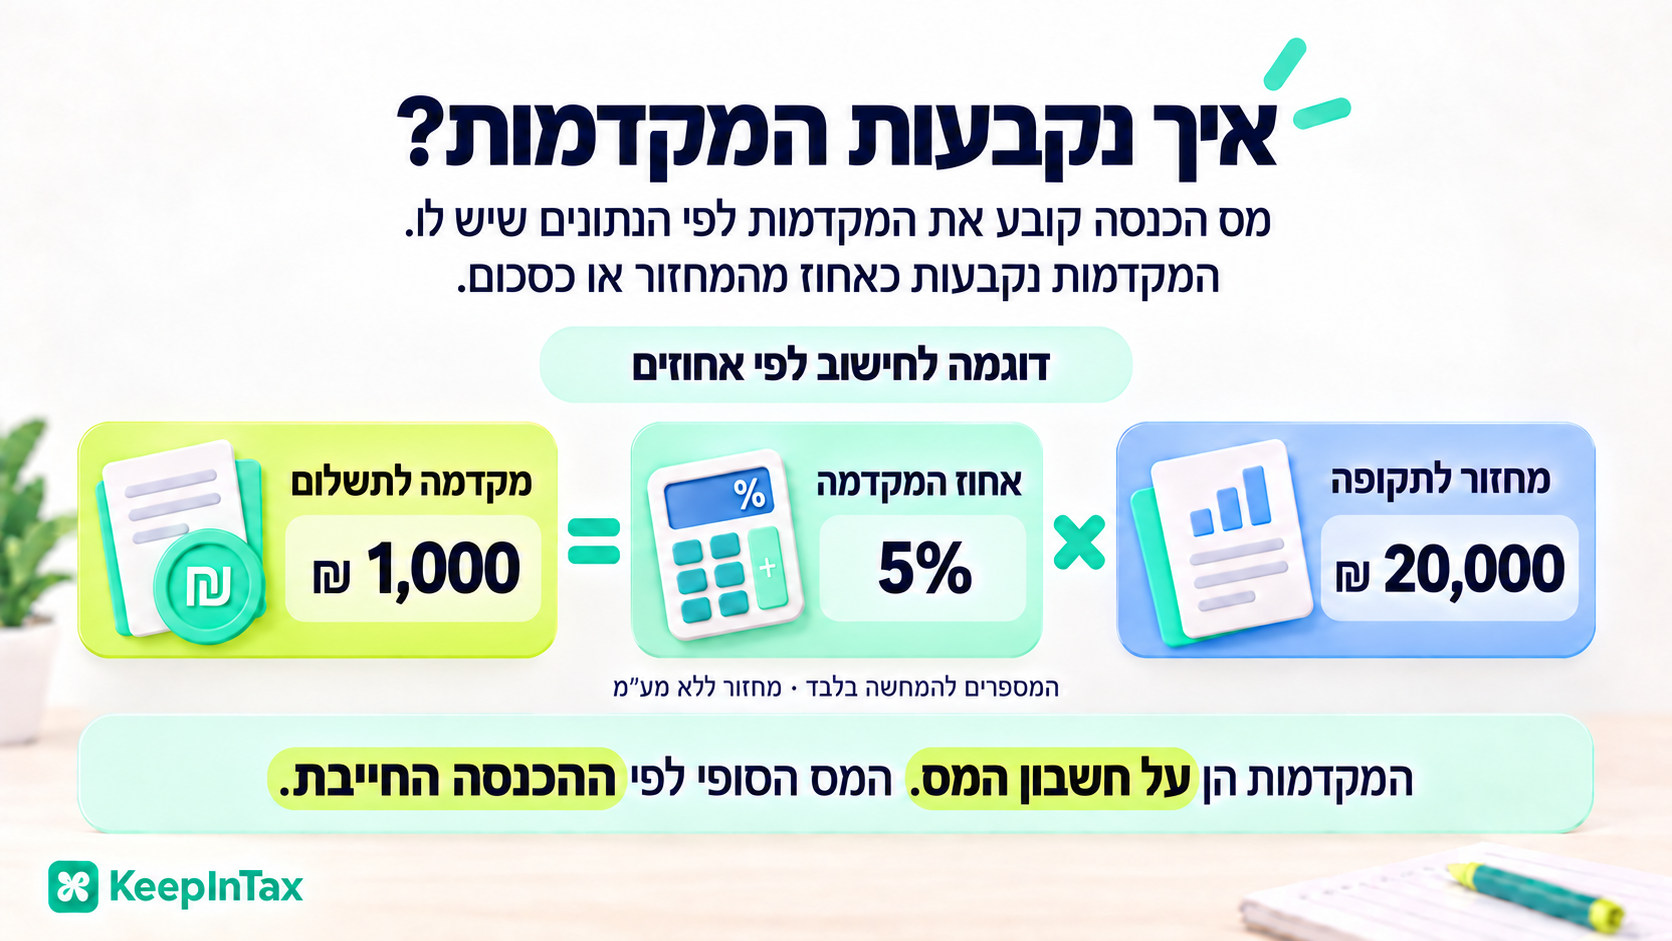
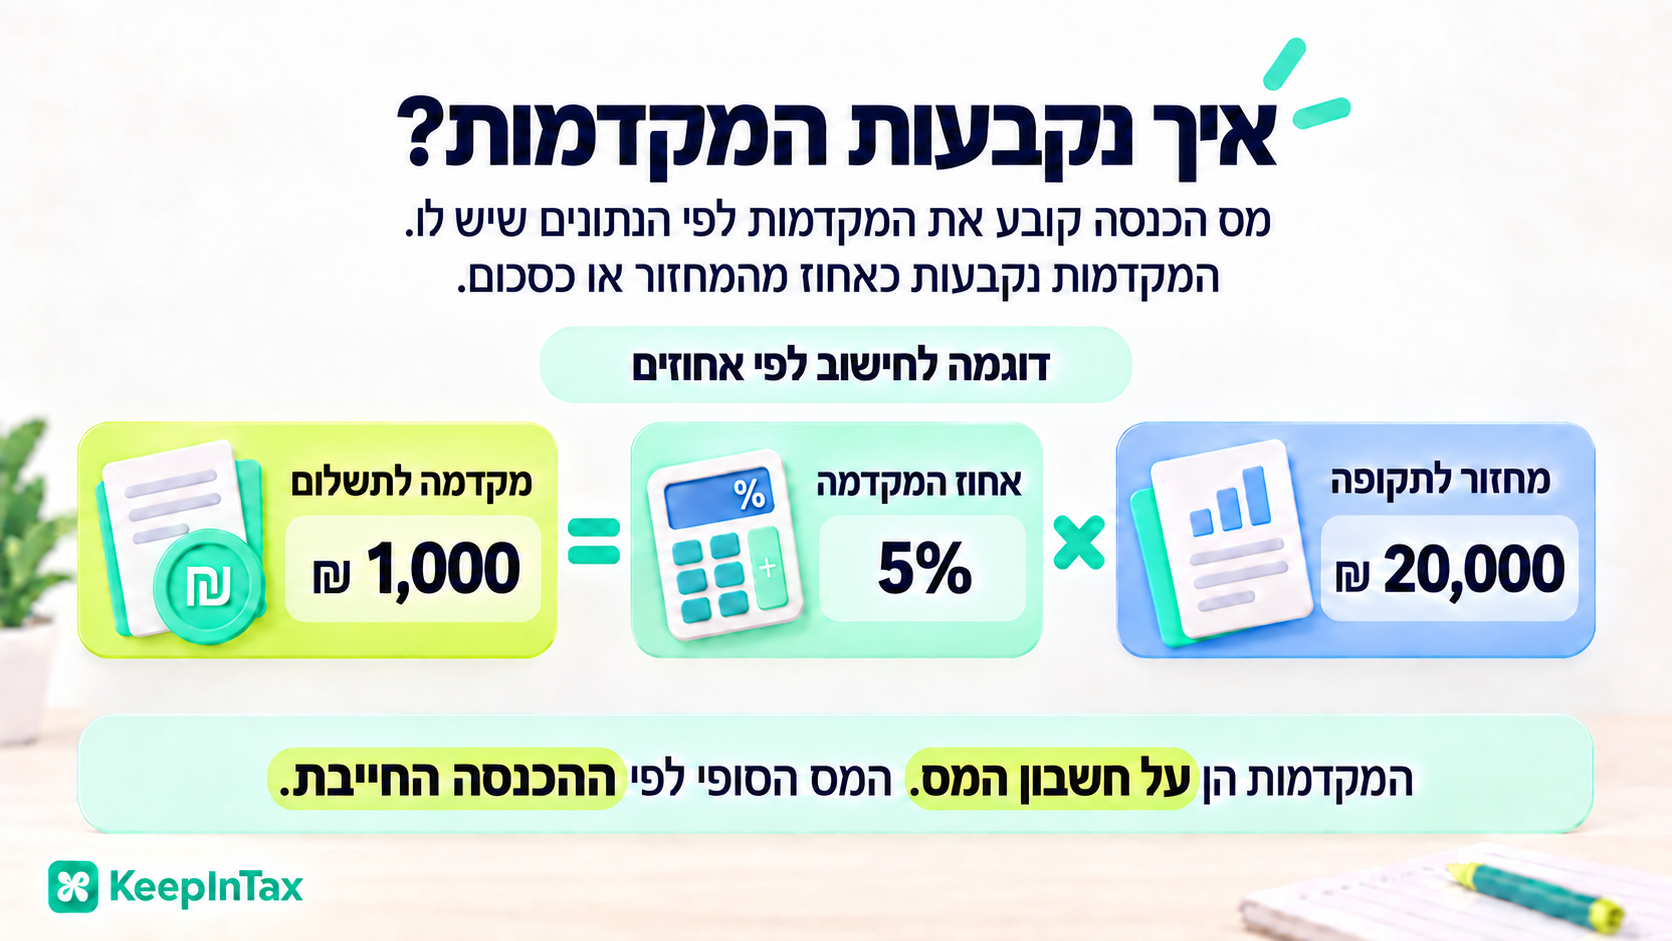
fix(guide): remove advances calculation caption

diff --git a/frontend/src/app/pages/admin-panel/AGENTS.md b/frontend/src/app/pages/admin-panel/AGENTS.md
@@ -18,6 +18,8 @@ Internal admin console (tabbed) for staff to manage clients dashboard, the unifi
 
 ## Main flows
 
+- Income chapter slide 3 artwork omits the small illustrative/VAT caption as requested on 2026-10-03. Same asset path and contain rendering; calculation and example unchanged. Provenance and retained assumptions: `docs/marketing/income-tax-guide.md`.
+
 - Current expense versus depreciation is main slide 14, between expense principle and savings calculator (17 main/29 total). Exact approved PNG uses contain rendering; small bottom notes are removed but the VAT banner remains. No calculator/engine changes. Assumptions and provenance: `docs/marketing/expense-depreciation-slide.md`.
 
 - Pension overview and deduction/credit artwork are main slides 11–12, after the study comparison (16 main/28 total). Both use the existing contain renderer and exact approved PNGs; no calculation changes. `docs/marketing/pension-slides.md` records provenance and presenter qualifications removed from the visible artwork at user request.

diff --git a/docs/marketing/income-tax-guide.md b/docs/marketing/income-tax-guide.md
@@ -1,5 +1,15 @@
 # Income Tax guide — approved content and artwork
 
+## 2026-10-03 advances caption removal
+
+Income chapter slide 3 (`advances-calculation`): removed only the small line
+“המספרים להמחשה בלבד · מחזור ללא מע״מ” at the user's request. Built-in image
+edit source `exec-d954f592-8d7b-42e2-b060-a7004d65f195.png` replaces
+`advances-calculation-approved.png` without recompression. All other copy,
+20,000 × 5% = 1,000 example and renderer remain unchanged. The underlying
+example still assumes turnover excluding VAT; removal is visual, not a change
+to advance-payment calculation rules. No calculation code changes.
+
 Approved by Elazar in the marketing conversation, 2026-09-14. Implementation
 continuation of KT-021. No VAT chapter, customer data or publication is included.
 
